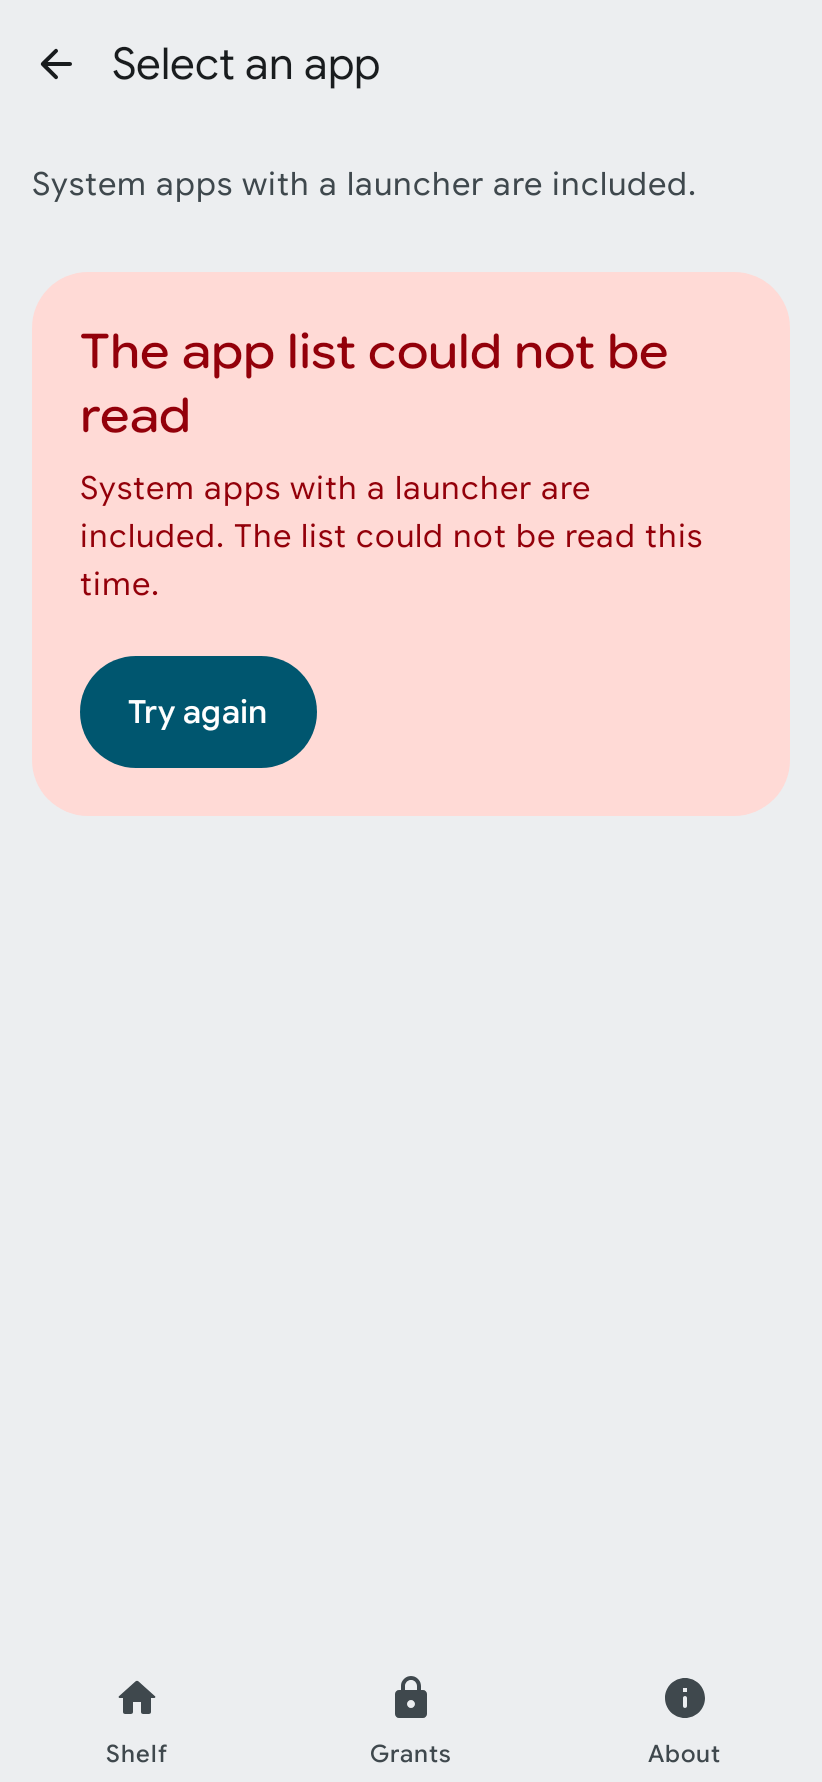
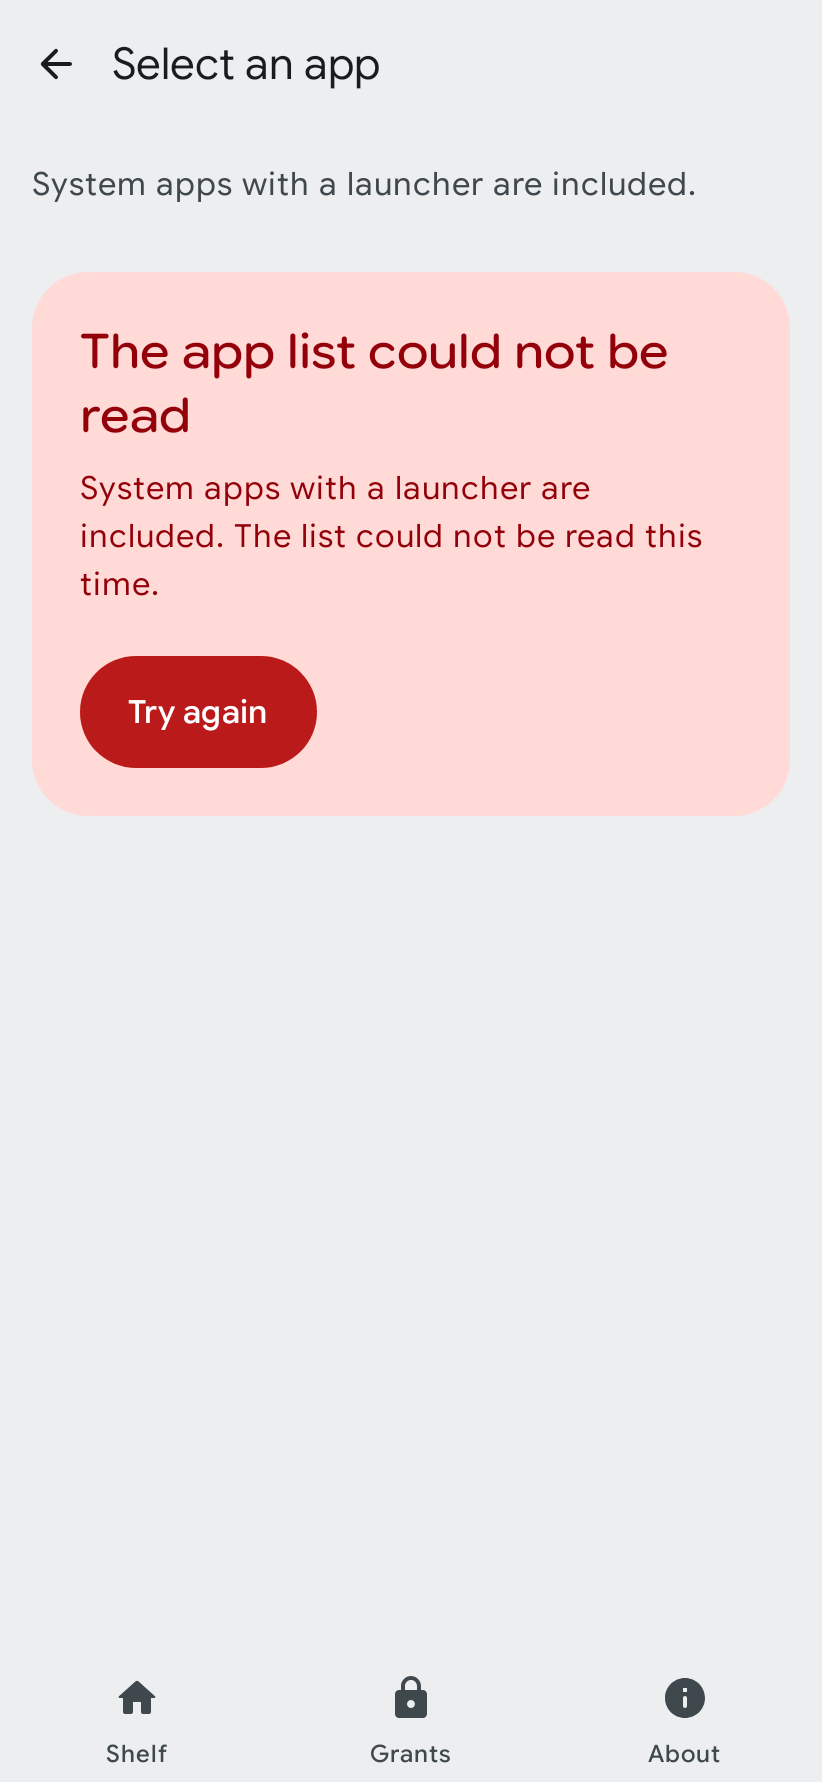
Tighten the error panes and the keep screen choices
Error panes now give their button the error role, so the card stays one color family in dark mode. The keep screen choices are selectable segmented rows with a radio button, which scales at 200% font and exposes the selected state to TalkBack. Two upstream copy errors on that screen are corrected.

Changed region(s): [[0.0912, 0.3704, 0.3954, 0.4321]]

diff --git a/app/src/main/java/com/flxholle/quicktiles/ui/DetailScreen.kt b/app/src/main/java/com/flxholle/quicktiles/ui/DetailScreen.kt
@@ -1,6 +1,5 @@
 package com.flxholle.quicktiles.ui
 
-import androidx.compose.foundation.background
 import androidx.compose.foundation.layout.Box
 import androidx.compose.foundation.layout.Column
 import androidx.compose.foundation.layout.PaddingValues
@@ -8,23 +7,20 @@ import androidx.compose.foundation.layout.Spacer
 import androidx.compose.foundation.layout.fillMaxSize
 import androidx.compose.foundation.layout.height
 import androidx.compose.foundation.layout.padding
-import androidx.compose.foundation.layout.size
 import androidx.compose.foundation.lazy.LazyColumn
-import androidx.compose.foundation.shape.CircleShape
+import androidx.compose.foundation.selection.selectableGroup
 import androidx.compose.material.icons.Icons
-import androidx.compose.material.icons.rounded.Check
 import androidx.compose.material.icons.rounded.Refresh
 import androidx.compose.material3.Button
 import androidx.compose.material3.ButtonDefaults
 import androidx.compose.material3.FilledTonalButton
-import androidx.compose.material3.Icon
 import androidx.compose.material3.ListItemDefaults
 import androidx.compose.material3.MaterialTheme
+import androidx.compose.material3.RadioButton
 import androidx.compose.material3.SegmentedListItem
 import androidx.compose.material3.Text
 import androidx.compose.runtime.Composable
 import androidx.compose.ui.Modifier
-import androidx.compose.ui.draw.clip
 import androidx.compose.ui.res.stringResource
 import com.flxholle.quicktiles.R
 import com.flxholle.quicktiles.ui.theme.spacing
@@ -89,7 +85,7 @@ private fun CounterDetail(model: DetailModel.Counter, padding: PaddingValues, ac
 private fun KeepDetail(model: DetailModel.KeepScreen, padding: PaddingValues, actions: ScreenActions) {
     val space = MaterialTheme.spacing
     LazyColumn(
-        modifier = Modifier.fillMaxSize(),
+        modifier = Modifier.fillMaxSize().selectableGroup(),
         contentPadding = PaddingValues(
             start = space.margin,
             end = space.margin,
@@ -113,30 +109,13 @@ private fun KeepDetail(model: DetailModel.KeepScreen, padding: PaddingValues, ac
             val choice = model.choices[index]
             val selected = choice.mode == model.mode
             SegmentedListItem(
+                selected = selected,
                 onClick = { actions.onKeepMode(choice.mode) },
                 shapes = ListItemDefaults.segmentedShapes(index, model.choices.size),
                 colors = ListItemDefaults.segmentedColors(
                     containerColor = MaterialTheme.colorScheme.surfaceBright,
                 ),
-                leadingContent = {
-                    Box(
-                        Modifier
-                            .size(space.space200)
-                            .clip(CircleShape)
-                            .background(MaterialTheme.colorScheme.secondaryContainer),
-                    )
-                },
-                trailingContent = if (selected) {
-                    {
-                        Icon(
-                            Icons.Rounded.Check,
-                            contentDescription = null,
-                            tint = MaterialTheme.colorScheme.primary,
-                        )
-                    }
-                } else {
-                    null
-                },
+                leadingContent = { RadioButton(selected = selected, onClick = null) },
             ) {
                 Text(
                     choice.label,

diff --git a/app/src/main/java/com/flxholle/quicktiles/ui/States.kt b/app/src/main/java/com/flxholle/quicktiles/ui/States.kt
@@ -87,6 +87,10 @@ fun ErrorPane(
                 Button(
                     onClick = onAction,
                     shapes = ButtonDefaults.shapesFor(ButtonDefaults.MediumContainerHeight),
+                    colors = ButtonDefaults.buttonColors(
+                        containerColor = colors.error,
+                        contentColor = colors.onError,
+                    ),
                     contentPadding = ButtonDefaults.contentPaddingFor(ButtonDefaults.MediumContainerHeight),
                     modifier = Modifier.padding(top = space.space300),
                 ) {

diff --git a/app/src/test/java/com/flxholle/quicktiles/ScreenMatrixTest.kt b/app/src/test/java/com/flxholle/quicktiles/ScreenMatrixTest.kt
@@ -166,7 +166,7 @@ class ScreenMatrixTest {
         mode = KeepScreenMode.Any,
         choices = listOf(
             ModeChoice(KeepScreenMode.Ac, "When connected to an AC adapter"),
-            ModeChoice(KeepScreenMode.Usb, "When connected to an USB port"),
+            ModeChoice(KeepScreenMode.Usb, "When connected to a USB port"),
             ModeChoice(KeepScreenMode.Wireless, "When connected to a wireless source"),
             ModeChoice(KeepScreenMode.Any, "When connected to any power source"),
         ),
